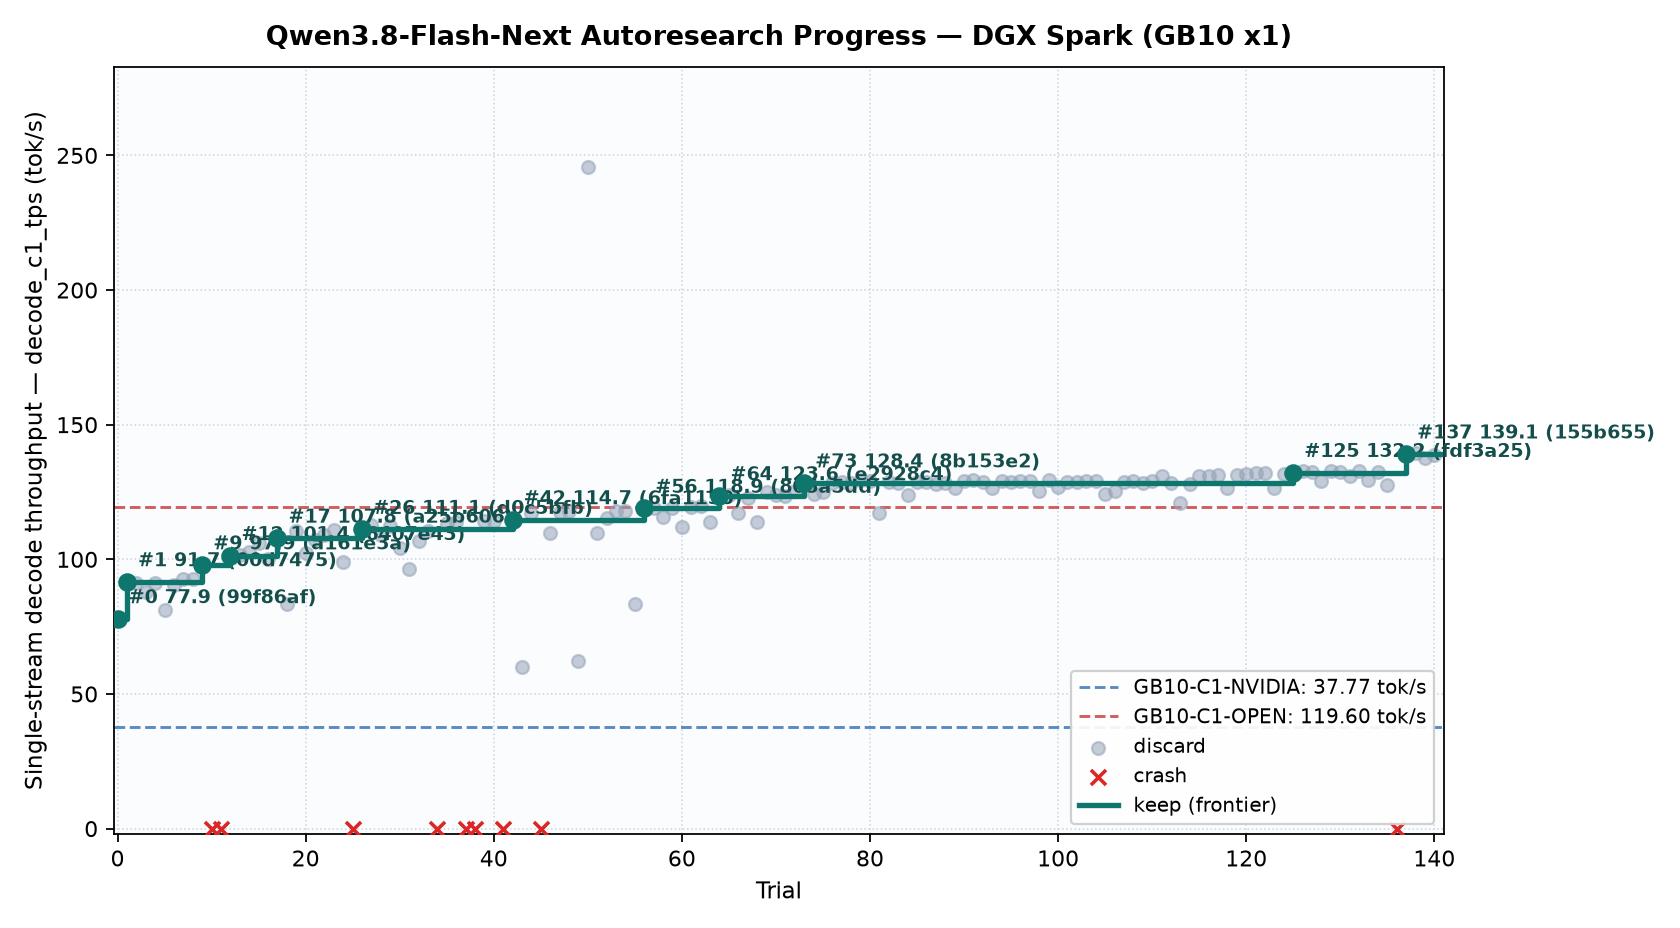
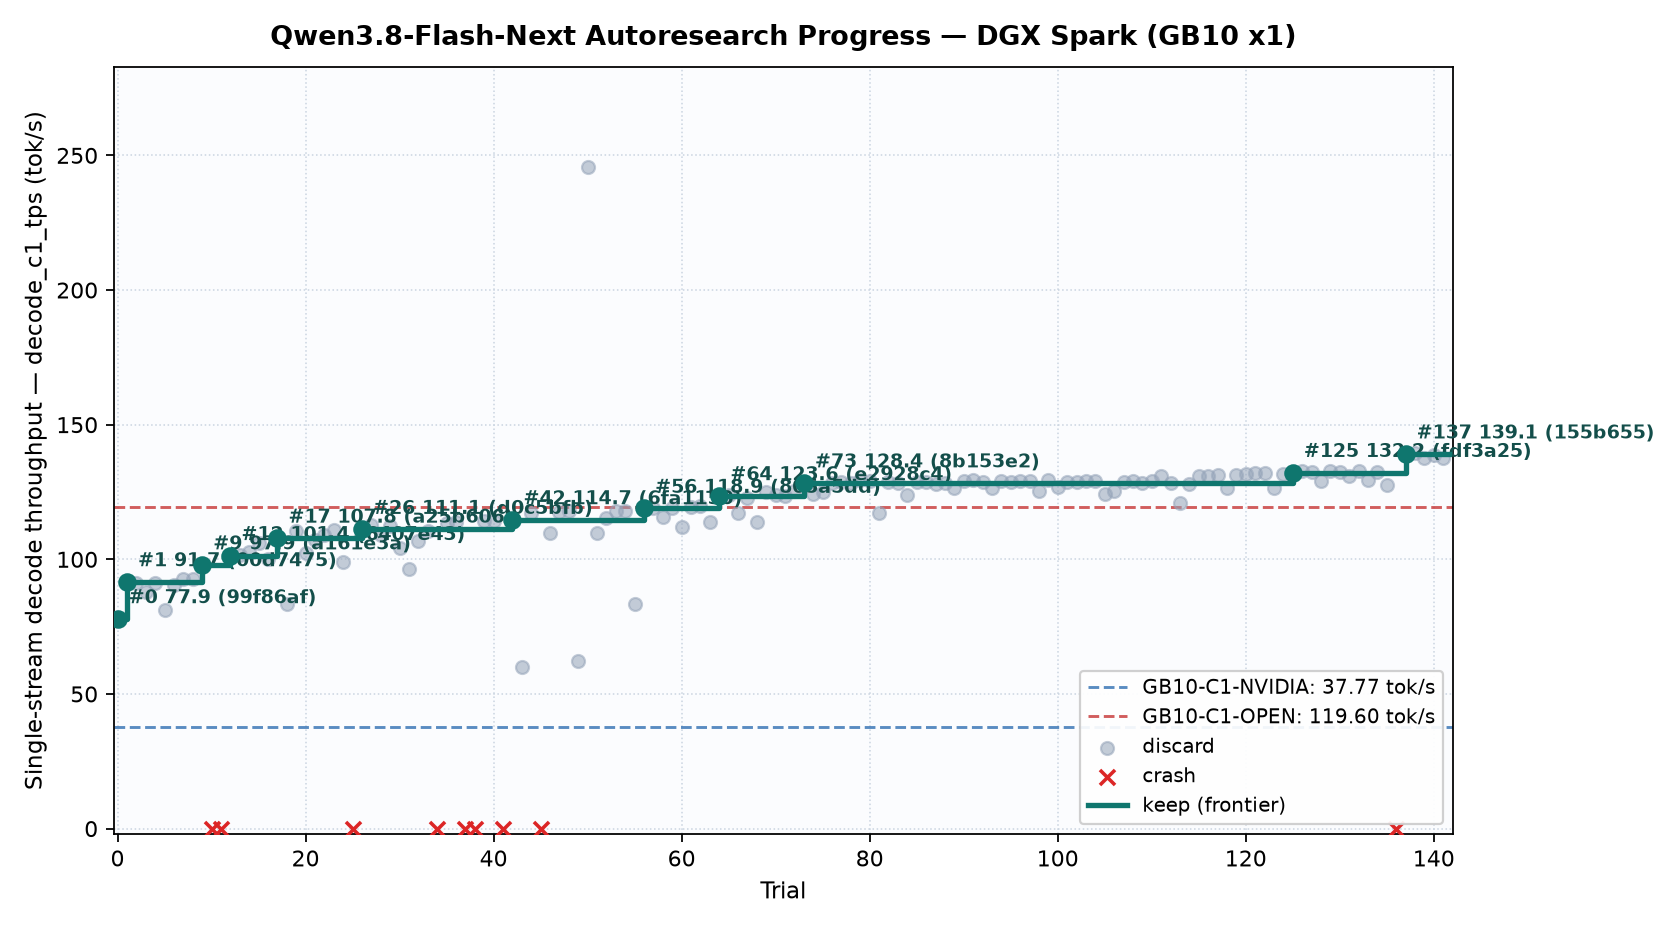
spark trial 141: discard

diff --git a/records/research-log.md b/records/research-log.md
@@ -170,3 +170,4 @@ Deprioritized: **3-bit expert weights** (Hibana +43% but GPQA -0.3, LCB -2.3; on
 | 2026-11-21 22:20 | 138 (new stack) | <https://github.com/ashhart/TensorFold/pull/3405> | Checked six release, commit and PR feeds. The local draft shortlist picker reserves 16 keys and columns per thread. An overflowing thread currently forces the entire CTA to reload its candidates. Trial 137 recorded 139.10 tok/s (keep). | Keep four keys per thread and let only overflowing threads reload their slice for threshold selection. Preserve both selection passes and BF16 rescoring. |
 | 2026-11-21 22:29 | 139 (new stack) | <https://github.com/sharar-project/hibana/blob/v0.1.0/docs/flashnext.md> | Checked six release, commit and PR feeds. The host restarted between the previous keep and the tail-calibration trial. Both post-restart throughput and proposal confidence could affect the comparison. Trial 138 recorded 139.57 tok/s (discard). | Remove only the retained tail correction. Compare against the retained calibrated run on the same boot, with identical draft tokens, weights, and verifier. |
 | 2026-11-21 22:36 | 140 (new stack) | <https://github.com/sharar-project/hibana/releases/tag/v0.1.0> | Reviewed all six release, commit and PR feeds. Hibana uses adaptive drafting. Removing tail calibration in trial 139 lowered single-stream throughput. | Test full bounded BF16-to-binary shortlist mass correction for the unrescored tail in the draft stopping rule. |
+| 2026-11-21 22:45 | 141 (new stack) | <https://github.com/NVIDIA/TensorRT-LLM/commit/fa257c96876c25256a1310538882c97df2147e87> | Reviewed all six release, commit and PR feeds. TensorRT-LLM specializes grouped MoE tactics. The parent reads losslessly packed NVFP4 scales with a serial binary search for escapes. Trial 140 recorded 138.87 tok/s (discard). | Keep the existing exception list and probe three sorted positions in parallel per iteration to shorten the longest lookup dependency chain. |
